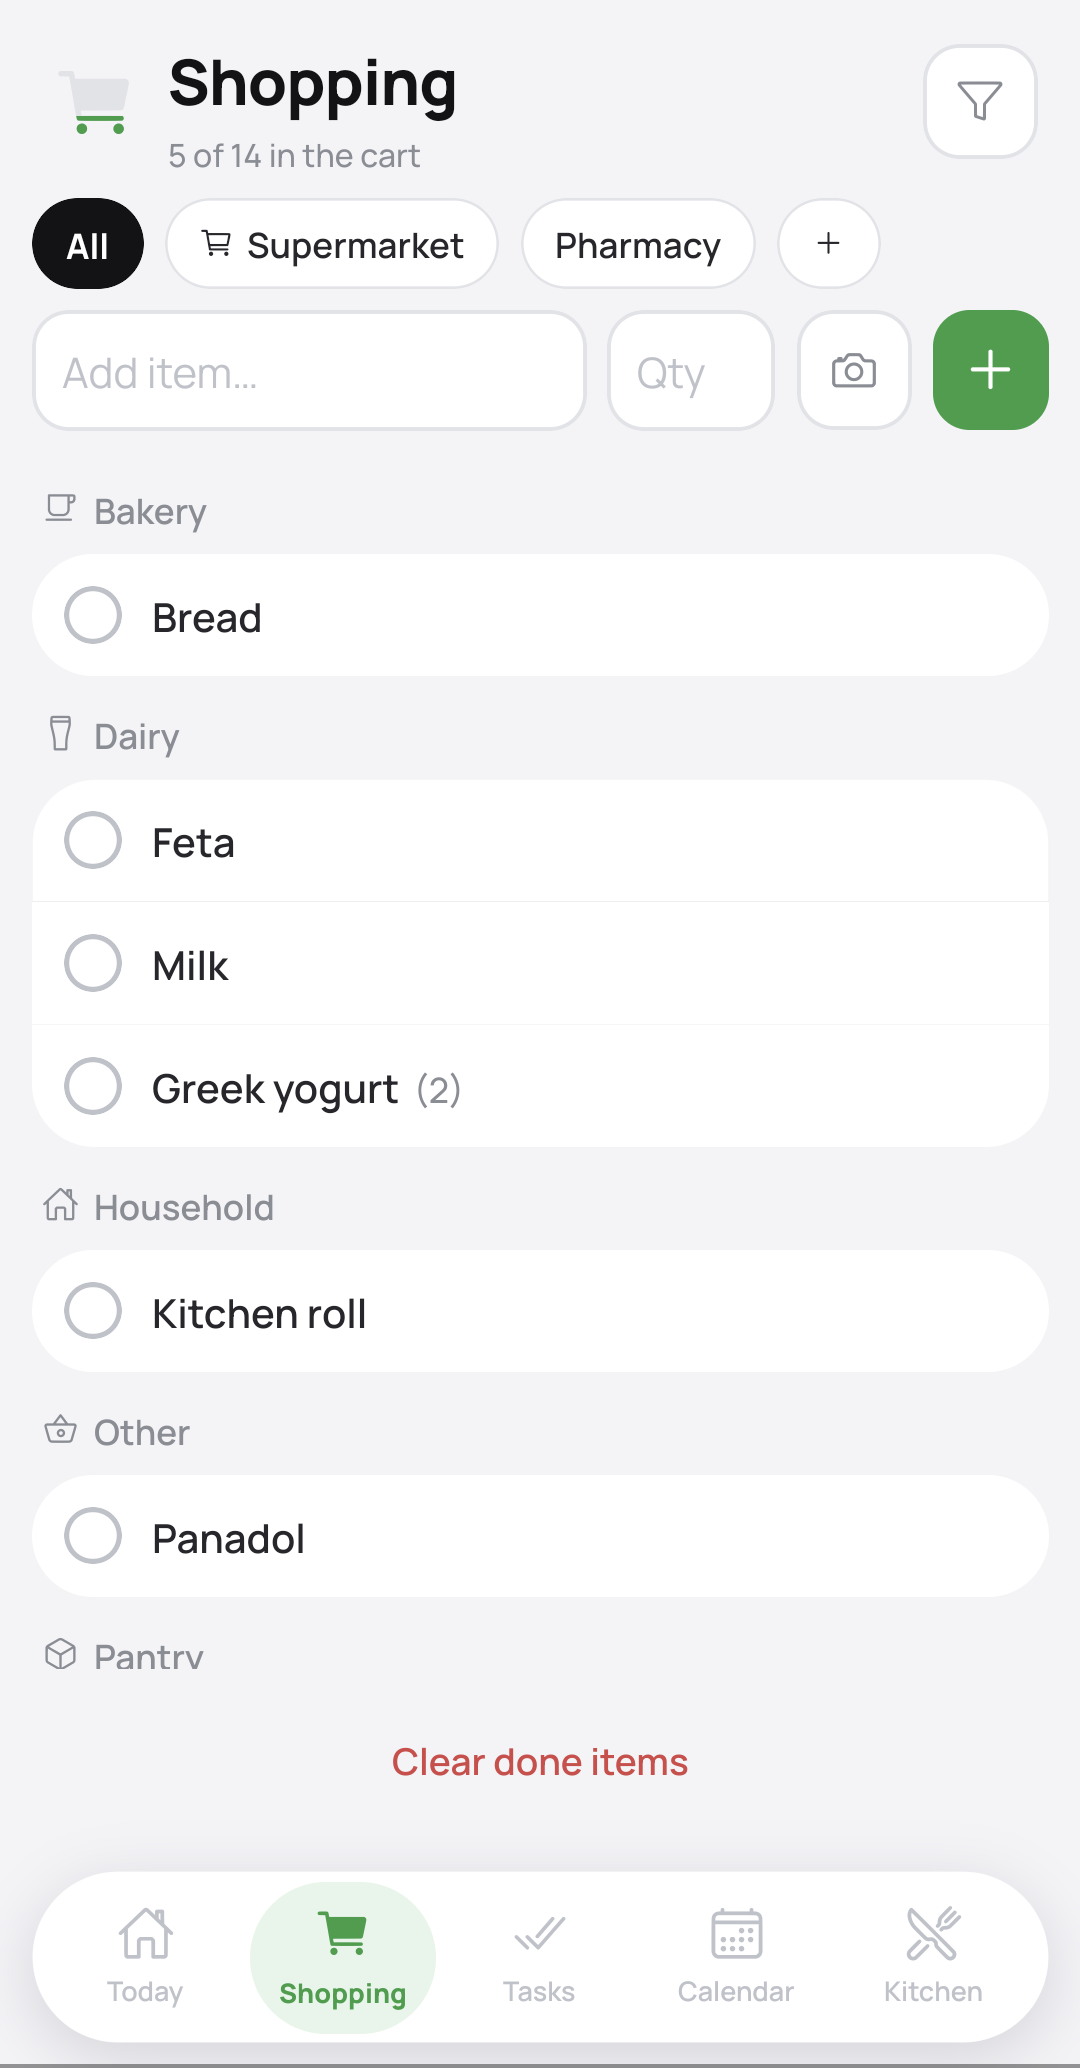
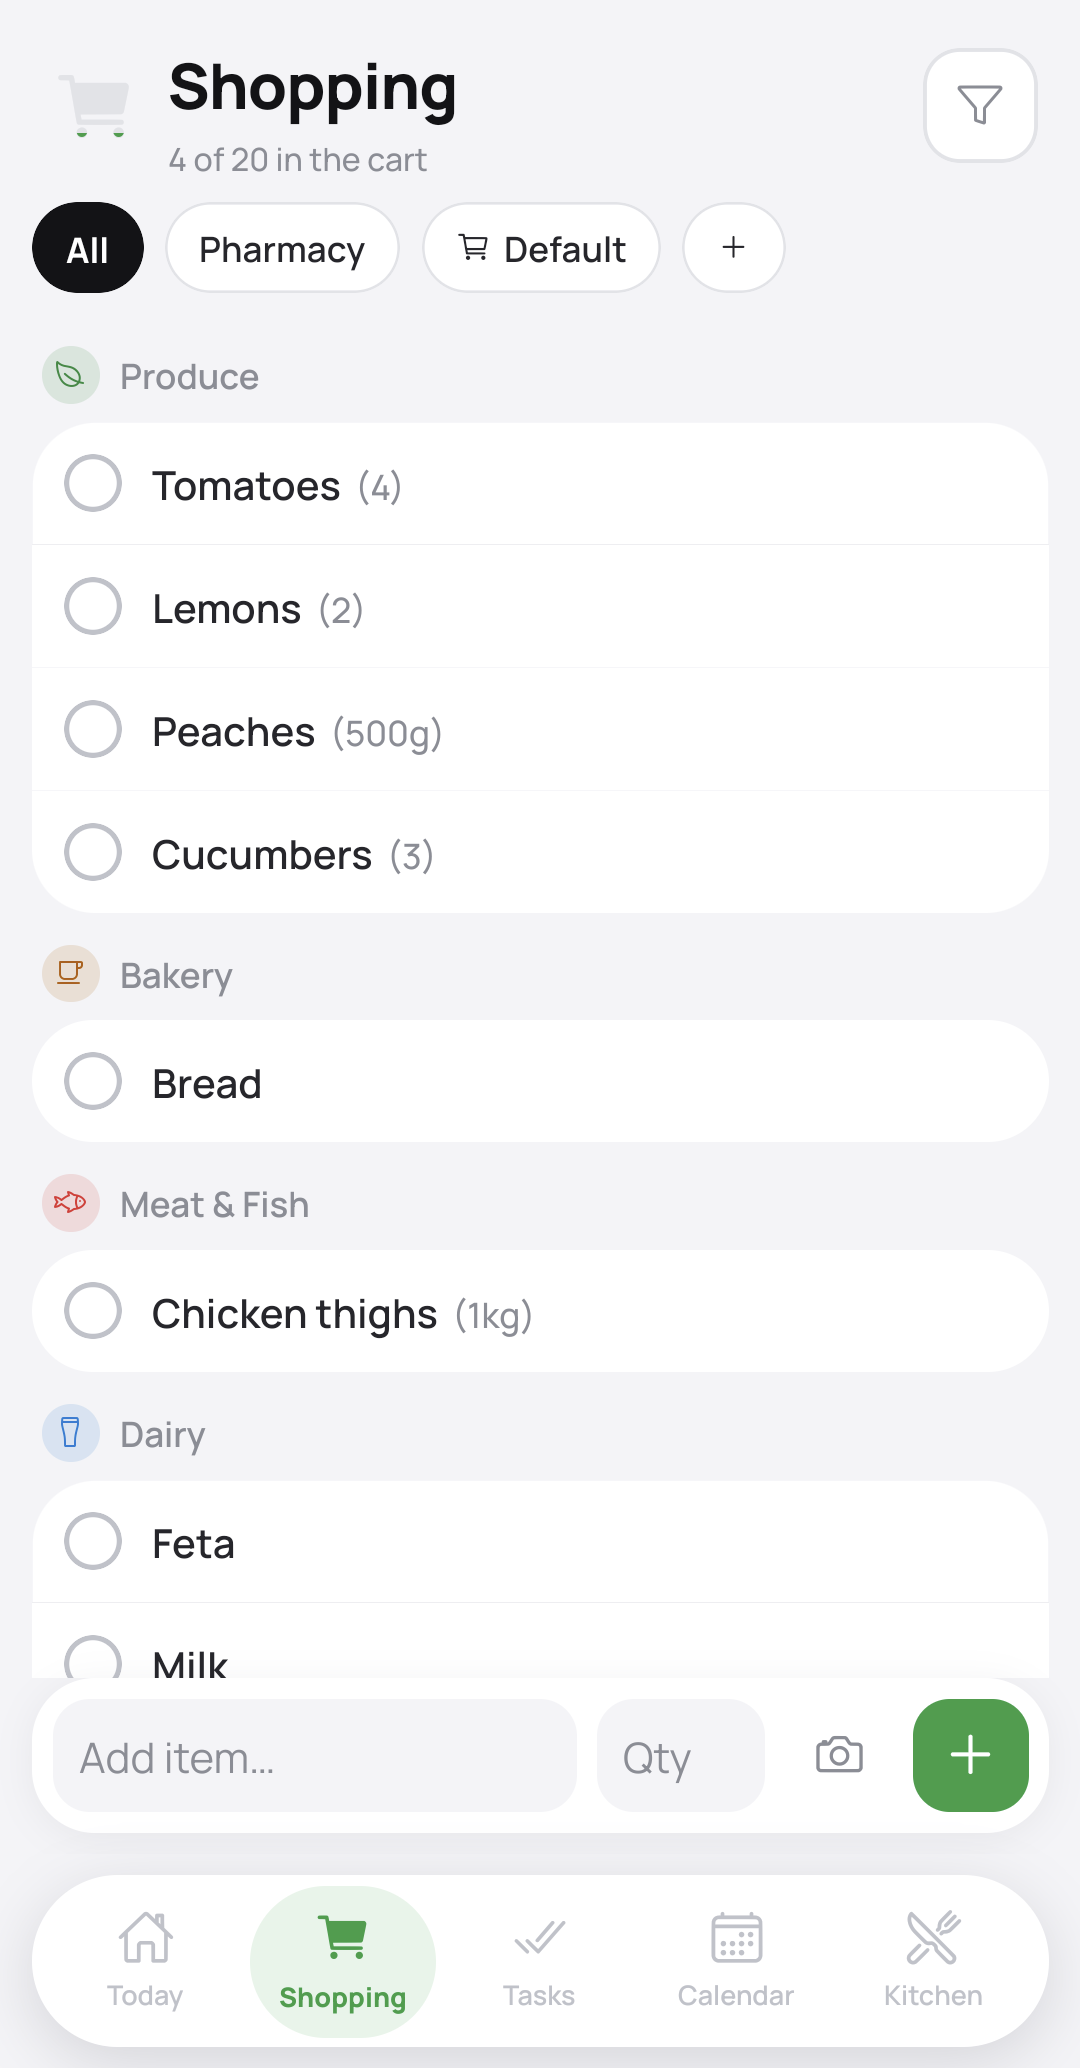
fix: the site's phone screens show the current app, with the add bar at the bottom and coloured aisles

diff --git a/index.html b/index.html
@@ -313,7 +313,7 @@
         exact brand your partner actually meant.</p>
       </div>
       <figure class="phone">
-        <img src="./assets/screens/shopping.png" alt="The shopping list grouped into bakery, dairy and household, with Supermarket and Pharmacy shop filters" width="1080" height="2068" loading="lazy">
+        <img src="./assets/screens/shopping.png" alt="The shopping list grouped into produce, bakery, meat and fish and dairy, with Pharmacy and Default shop filters and the add bar at the bottom" width="1080" height="2068" loading="lazy">
       </figure>
     </section>
 
@@ -359,7 +359,7 @@
     <h2>At home in light and dark.</h2>
     <div class="theme-pair">
       <figure class="phone">
-        <img src="./assets/screens/today.png" alt="The Today screen in the light theme, showing the day's events, tasks, meals and shopping progress" width="1080" height="2068" loading="lazy">
+        <img src="./assets/screens/today.png" alt="The Today screen in the light theme, showing the day's events, what is due and the meals" width="1080" height="2068" loading="lazy">
       </figure>
       <figure class="phone">
         <img src="./assets/screens/today-dark.png" alt="The same Today screen in the dark theme" width="1080" height="2068" loading="lazy">
